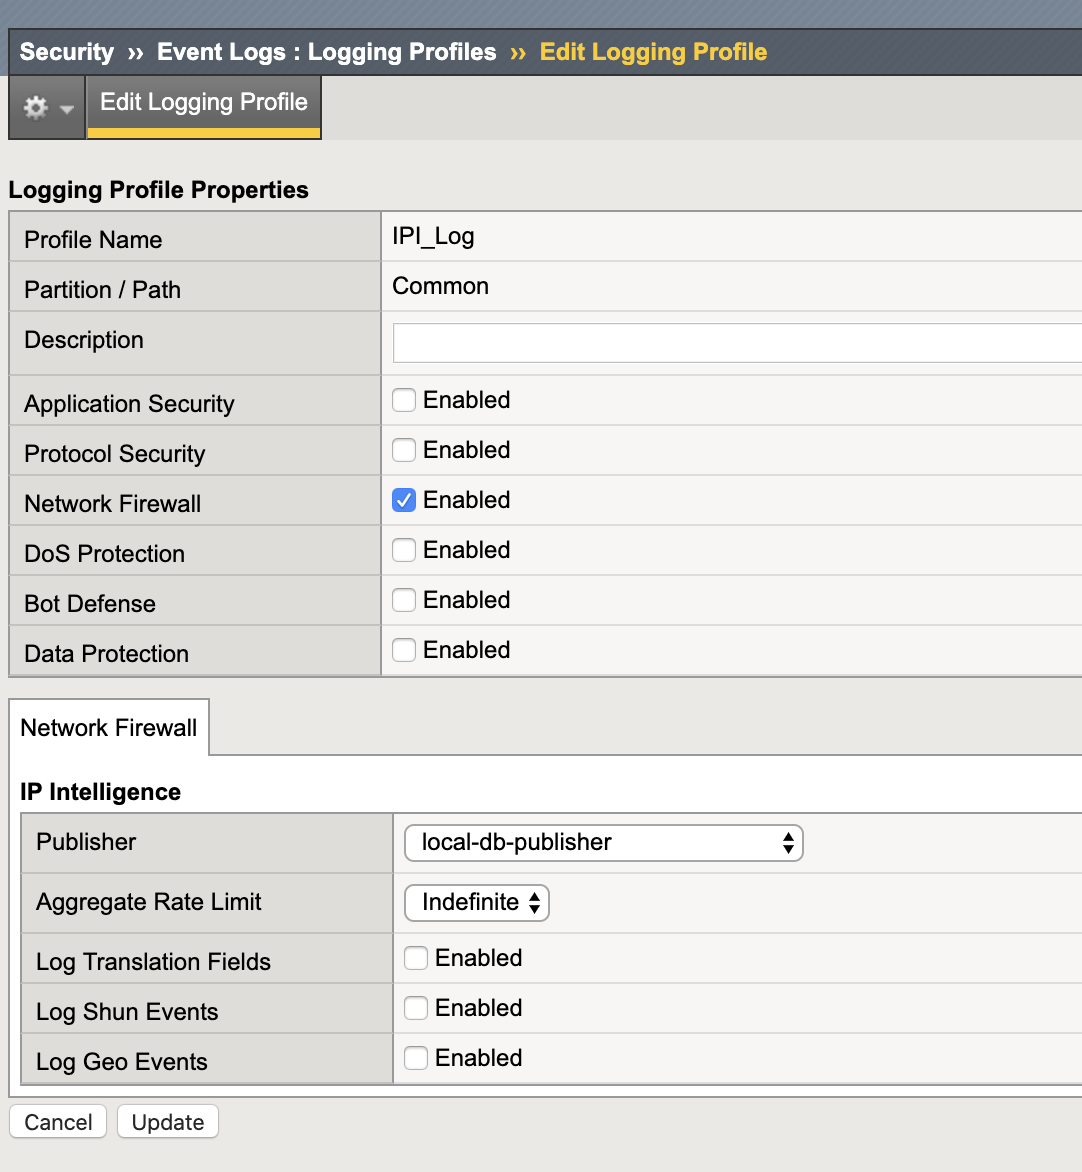
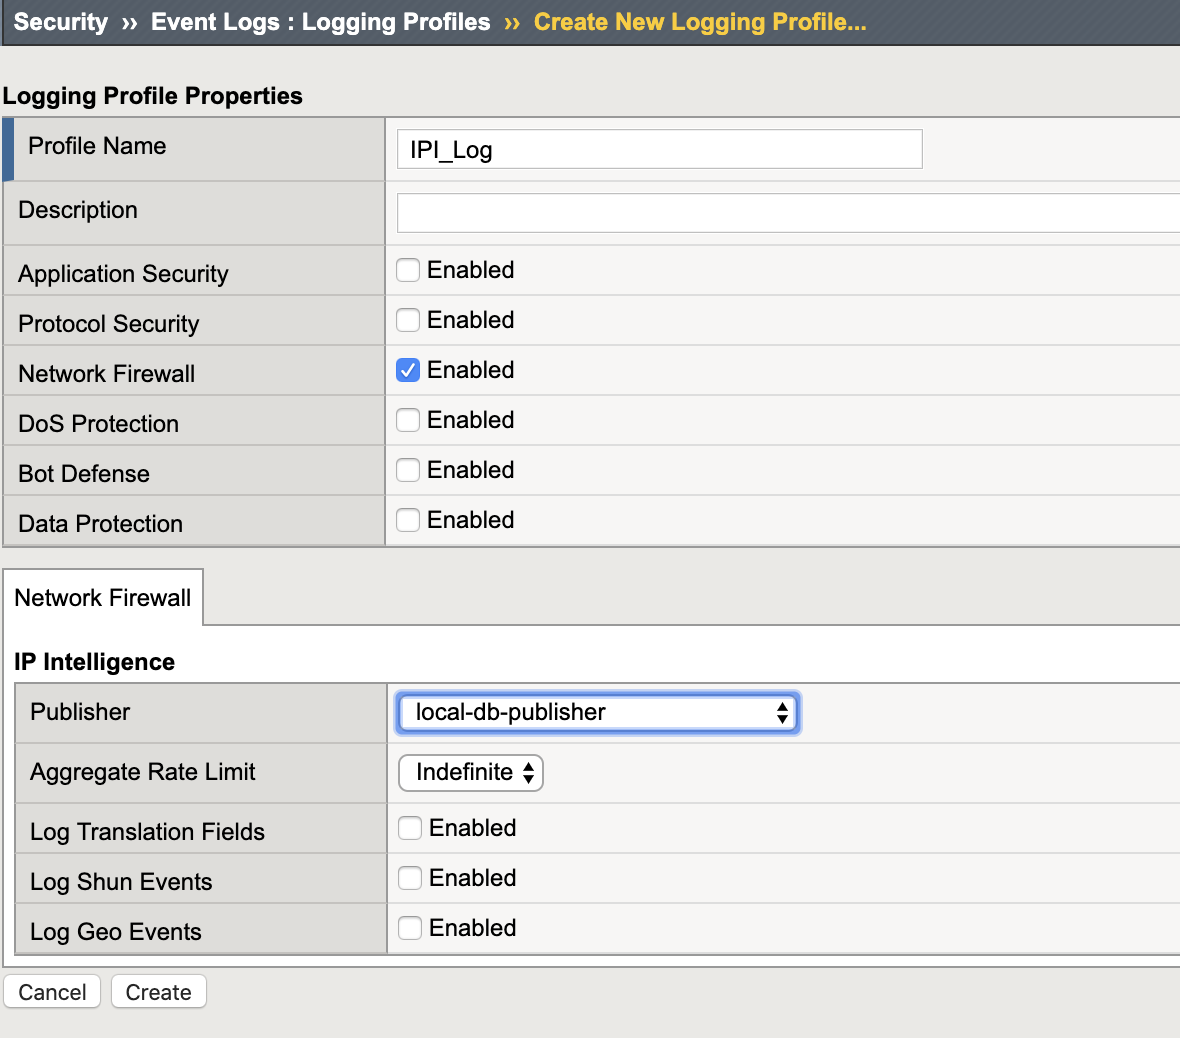
update

Changed region(s): [[0.0, 0.0, 1.0, 0.9865]]

diff --git a/docs/class3/module4 - xparent policy/lab1/lab1.rst b/docs/class3/module4 - xparent policy/lab1/lab1.rst
@@ -57,7 +57,7 @@ Enforcing HTTP Protocol Conpliance
 .. image:: images/http.png
   :width: 600 px
 
-We have now told the system to not making any learning sugestions on bad host header values and we enabled the default action as definied for **HTTP protocol compliance failed**. If we receive a match we will **Alarm** and **Block** if the policy was in Blocking Mode. 
+We have now told the system to not making any learning suggestions on bad host header values. We then enabled the default action as defined for **HTTP protocol compliance failed**. If we receive a match we will **Alarm** in Transparent Mode and **Block** if the policy was in Blocking Mode. 
 We also told the sytem to start generating learning suggestions if we see any attempts to access the site via IP address instead of hostname.  
 
 #. From Firefox on client01, load the insecureApp1 bookmark and refresh several times. 
@@ -140,20 +140,18 @@ In this exercise we will examine server technologies which allow you to automati
 .. image:: images/st.png
   :width: 600 px
 
-#. Scroll down to **Advanced Settings > Server Technologies** and click in the box. Search for Linux since we know the server is running Linux. The system will dispaly a box describing which new signature sets will be applied. Click **Confirm**. 
+#. Scroll down to **Advanced Settings > Server Technologies** and click in the box. Search for Linux since we know the server is running Linux. The system will display a box describing which new signature sets will be applied. Click **Confirm**. 
 
 .. image:: images/ast.png
   :width: 600 px
 
 **Make sure to Save and Apply Policy.**
 
-#. On Client01 load the bookmark for **Webgoat** and Login.
-#. On BIG-IP  Go to **Security > Application Security > Policy Building > Traffic Learning** and notice the three new 100% alerts for Server Technologies. 
-#. Select all three suggestions and click **Accept**. 
-
-**Make sure to Apply Policy**
-
 #. Go to **Security > Application Security > Policy Building > Learning and Blocking Settings > Attack Signatures** and notice the new Unix/Linux Server Technology signature sets that were added to the policy. 
+
+.. image:: images/unix.png
+  :width: 600 px
+
 #. Click **Change** and review all of the additional Signature Sets that you can add manually add to a policy. Click **Cancel**
 
 Framework Attacks
@@ -209,7 +207,7 @@ Review Reporting
 
 Bonus
 ~~~~~~~~~~
-Protecting a login page is a very important role for a WAF. While Brute Force attacks are on the decline, Credential Stuffing attacks have increased several times over in the past 5 years. In this lab we wil lgo through the exercise of defining login page parameters and observe the configuration options. 
+Protecting a login page is a very important role for a WAF. While Brute Force attacks are on the decline, Credential Stuffing attacks have increased several times over in the past 5 years. In this lab we will go through the exercise of defining login page parameters and observe the configuration options. 
 #. Navigate to **Security > Application Security > Sessions and Logins > Login Pages List**.
 #. Configure the Login Page as show below and click **Create** and **Apply Policy**.
 #. You would normally get these settings by interating with the application while using the Browser Developer tools to observe the various status codes and headers present in a valid vs invalid login. 
@@ -218,12 +216,15 @@ Protecting a login page is a very important role for a WAF. While Brute Force at
   :width: 600 px
 
 #. Navigate to **Security > Application Security > Brute Force Attack Prevention** and click **Create**. 
+#. Select the Login Page that you just created. 
 #. Review all of the configuration options available for protecting a Login Page from Brute Force and Credential Stuffing Attacks. 
 
 .. image:: images/bf.png
   :width: 600 px
 
 .. NOTE:: The security policy's enforcement mode is Transparent. Requests will not be blocked unless the enforcement mode is changed to Blocking on the Learning and Blocking Settings screen
+
+This final lab was for demonstration purposes and no further action is necessary. You can just hit **Cancel** once you have reviewed all of the settings. 
 
 **This completes Lab 4**
 

diff --git a/docs/class3/module1 - ipi and geo/lab1 - ipi/lab1.rst b/docs/class3/module1 - ipi and geo/lab1 - ipi/lab1.rst
@@ -12,7 +12,14 @@ Objective
 
 - Estimated time for completion: **30** **minutes**.
 
-#. RDP to client01, launch Chrome (please be patient and don't click the icon multiple times)
+#. RDP to client01. Depending on your RDP client, you may get a empty XRDP login screen such as this. 
+
+.. image:: images/xrdp.png
+  :width: 600 px
+
+Simply click in the username field and backspace. Enter the name: **f5student** and in the password firld use the **password** provided by the instructor. 
+
+#. Launch Chrome browser (please be patient and don't click the icon multiple times)
 
 .. NOTE:: If the Operating system prompts you enter your password for keychain access, please enter the "f5student" password provided by your lab instructor. 
 
@@ -120,7 +127,7 @@ Create IPI Logging Profile
 ~~~~~~~~~~~~~~~~~~~~~~~~~~~~~~~~~
 #. Navigate to **Security > Event Logs > Logging Profiles** and click **Create**.
 #. Name: **IPI_Log**
-#. Select **Network Firewall** and **local-db-publisher** under IP Intelligence.
+#. Select **Network Firewall** and **local-db-publisher** under IP Intelligence and then click **Create**.
 
 .. image:: images/ipi_log.png
   :width: 600 px
